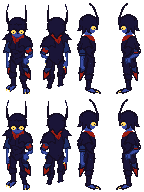
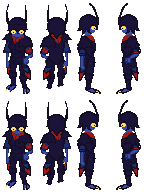
attacks despawn, fixed florence's idle a bit

diff --git a/js/scene/MapScene.js b/js/scene/MapScene.js
@@ -65,30 +65,49 @@ function(EntityMaker, Script, Vector, goody, Scene, Map, CollisionHandler, MapCa
         }
     }
 
-    MapScene.prototype.update = function(input, delta) {
-        // Updates input affected entity with a set of inputs
-        if (input.change) {
-            if (!this._changing) {
-                this._changing = true;
-                this.inputAffected = goody.incrementLoop(this.inputAffected, this.entities["party"].length);
-                this.camera.assignEnity(this.party[this.inputAffected]);
+    MapScene.prototype.updateEntites = function(delta){
+        let toUpdate = ["enemies", "sceneTransitions", "attacks", "other"];
+        for (let i=0; i < toUpdate.length; i++) {
+            for (let n=0; n<this.entities[toUpdate[i]].length; n++) {
+                this.entities[toUpdate[i]][n].update(this.map, this.collisionHandler, delta);
             }
-        } else {
-            this._changing = false;
         }
-        console.log(this.inputAffected)
-        this.entities["party"][this.inputAffected].update(input, this.map, this.collisionHandler, delta)
-        if (this.entities["party"][this.inputAffected].spawn.length !== 0) {
-            for (let i=0; i < this.entities["party"][this.inputAffected].spawn.length ; i++ ) {
-                let spawnInfo = this.entities["party"][this.inputAffected].spawn[i];
+    }
+
+    MapScene.prototype._spawnAttacks = function(entity){
+        if (entity.spawn.length !== 0) {
+            for (let i=0; i < entity.spawn.length ; i++ ) {
+                let spawnInfo = entity.spawn[i];
                 let spawn = EntityMaker(spawnInfo[0], spawnInfo[1]);
                 if (spawn instanceof Attack.Attack) {
                     this.entities.attacks.push(spawn);
                 }
             }
-            this.entities["party"][this.inputAffected].spawn = [];
-        }
+          entity.spawn = []; 
+        } 
+    }
 
+
+    MapScene.prototype.update = function(input, delta) {
+        // Updates input affected entity with a set of inputs
+        this.updateEntites(delta);
+        if (input.change) {
+            if (!this._changing) {
+                this._changing = true;
+                this.inputAffected = goody.incrementLoop(this.inputAffected, this.entities["party"].length);
+                this.camera.assignEnity(this.entities["party"][this.inputAffected]);
+            }
+        } else {
+            this._changing = false;
+        }
+        for (let p=0; p < this.entities["party"].length; p++){
+            if (this.inputAffected == p) {
+                this.entities["party"][this.inputAffected].inputUpdate(input, this.map, this.collisionHandler, delta)
+            } else {
+                this.entities["party"][p].update(this.map, this.collisionHandler, delta);
+            }
+            this._spawnAttacks(this.entities["party"][p])
+        }
 
         for (let i=0; i<this.entities.attacks.length; i++) {
             if (this.entities.attacks[i].active) {
@@ -125,6 +144,9 @@ function(EntityMaker, Script, Vector, goody, Scene, Map, CollisionHandler, MapCa
                 }
             }
         }
+        this.entities["enemies"] = this.entities["enemies"].filter(enemy => !enemy.toDelete);
+        this.entities["attacks"] = this.entities["attacks"].filter(attack => !attack.toDelete);
+
     }
 
     MapScene.prototype.click = function(mousePosition) {
@@ -138,6 +160,10 @@ function(EntityMaker, Script, Vector, goody, Scene, Map, CollisionHandler, MapCa
     MapScene.prototype.display = function() {
         // draws the scene
         this.camera.display(this.cursor, this.entities);
+        this.camera.showString(this.entities["attacks"].length.toString(), 20);
+        if (this.entities["attacks"].length > 0) {
+            this.camera.showString(this.entities["attacks"][this.entities["attacks"].length-1].duration.toString(), 40);
+        }
     }
 
     MapScene.prototype.continuationInfo = function() {

diff --git a/js/display/MapCamera.js b/js/display/MapCamera.js
@@ -113,9 +113,6 @@ function(Vector, goody, vars)
         let tilesetinfo = map.tilesetInfo;
         let tiles = "";
         let tileOffset = 0;
-
-//debugger;
-
         
         // for multiple tilesets, things will get trickier
         for (let n=0; n<tilesetinfo.length; n++) {
@@ -125,17 +122,8 @@ function(Vector, goody, vars)
         // tileset should be stored with each map load omfgs -_-
         let tilesPerRow = 16; // need to fetch from map dat ain the futureS
         let tileset = map.tileset[tiles];
-        // offset for the number and processing tiles
-        //tile = tile - 13; 
-        //for every tile:
-        //    find the image it corresponds to
         let xpos = ((tile - 1) % tilesPerRow) * dim; 
         let ypos = Math.floor(tile / tilesPerRow) * dim;
-
-//        xpos = Math.floor((tile-1) % (tileset.width / dim)) * dim;
-//        ypos = Math.floor((tile-1) / (tileset.width / dim)) * dim;
-//        let xpos = ((tile+1) % (image.width / dim)) * dim;    
-  //      let ypos = Math.floor((tile-1) / (image.width / dim)) * dim; 
         ctx.drawImage(
             images[tileset.image.replace(".png", "")],                                              //image
             xpos,                                                       //x position on image

diff --git a/js/entities/PlayableEntity.js b/js/entities/PlayableEntity.js
@@ -72,7 +72,11 @@ function(Animation, Entity, Vector, goody, vars)
         }
     };
 
-    PlayableEntity.prototype.update = function(input, map, collisionHandler, timeDelta) {
+    PlayableEntity.prototype.update = function(map, collisionHandler, timeDelta) {
+        this._sprite.update(timeDelta);
+    }
+
+    PlayableEntity.prototype.inputUpdate = function(input, map, collisionHandler, timeDelta) {
         // this is entirely variable by game but this is not a bad defualt
         // if moving 
         this._orient(input);
@@ -87,7 +91,9 @@ function(Animation, Entity, Vector, goody, vars)
     PlayableEntity.prototype.drawImage = function(ctx, offset) {
         let displayOffset = this.rect.position.add(offset);
         this._sprite.display(ctx, displayOffset);
-        this.rect.draw(ctx, offset, "#00FF00");
+        if (vars.debug) {
+           this.rect.draw(ctx, offset, "#00FF00");
+        }
     }
     
     PlayableEntity.prototype._move = function(map, collisionHandler, timeDelta) {

diff --git a/js/entities/FollowAttack.js b/js/entities/FollowAttack.js
@@ -18,6 +18,7 @@ function(Animation, Attack, Vector, goody, vars)
         this.ownerPosition = this.owner.rect.center();
         this.rect.width = 20;
         this.rect.height = 20;
+        this.duration = 200;
 
         let offset = "";
         if (this.direction == "D") { 
@@ -32,12 +33,12 @@ function(Animation, Attack, Vector, goody, vars)
         this.rect.position = this.rect.position.add(offset);
     }
 
-    FollowAttack.prototype.update = function(timeDelta) {
+    FollowAttack.prototype.update = function(map, collisionHandler, timeDelta) {
         let offset = this.owner.rect.center().subtract(this.ownerPosition);
         this.rect.position = this.rect.position.add(offset);
         this.ownerPosition = this.owner.rect.center();
         this.duration -= timeDelta;
-        this.active = this.duration >= 0;
+        this.toDelete = this.duration <= 0;
     }
 
     FollowAttack.prototype.drawImage = function(ctx, offset) {

diff --git a/index.html b/index.html
@@ -15,9 +15,11 @@
                 display: block;    
                 margin: auto;
                 /* 2x code */
+                /*
                 width: 1498px;
                 height: 1056px;
                 vertical-align: bottom;
+                */
                 image-rendering: optimizeSpeed;             /* STOP SMOOTHING, GIVE ME SPEED  */
                 image-rendering: -moz-crisp-edges;          /* Firefox                        */
                 image-rendering: -o-crisp-edges;            /* Opera                          */

diff --git a/js/entities/PlayableEntityFlorence.js b/js/entities/PlayableEntityFlorence.js
@@ -23,9 +23,10 @@ function(Animation, PlayableEntity, Vector, goody, vars)
 
         this.rect.width = 21;
         this.rect.height = 27;
+        this.initiated = true;
     }
 
-    PlayableEntityFlorence.prototype.update = function(input, map, collisionHandler, timeDelta) {
+    PlayableEntityFlorence.prototype.inputUpdate = function(input, map, collisionHandler, timeDelta) {
         // this is entirely variable by game but this is not a bad defualt
         // if moving 
         this._orient(input);

diff --git a/js/entities/PlayableEntitySonna.js b/js/entities/PlayableEntitySonna.js
@@ -22,9 +22,10 @@ function(Animation, PlayableEntity, Vector, goody, vars)
 
         this.rect.width = 21;
         this.rect.height = 27;
+        this.initiated = true;
     }
-
-    PlayableEntitySonna.prototype.update = function(input, map, collisionHandler, timeDelta) {
+    
+    PlayableEntitySonna.prototype.inputUpdate = function(input, map, collisionHandler, timeDelta) {
         // this is entirely variable by game but this is not a bad defualt
         // if moving 
         this._orient(input);

diff --git a/js/entities/PlayableEntityPharynx.js b/js/entities/PlayableEntityPharynx.js
@@ -22,9 +22,10 @@ function(Animation, PlayableEntity, Vector, goody, vars)
 
         this.rect.width = 21;
         this.rect.height = 27;
+        this.initiated = true;
     }
 
-    PlayableEntityPharynx.prototype.update = function(input, map, collisionHandler, timeDelta) {
+    PlayableEntityPharynx.prototype.inputUpdate = function(input, map, collisionHandler, timeDelta) {
         // this is entirely variable by game but this is not a bad defualt
         // if moving 
         this._orient(input);

diff --git a/js/assets/vars.js b/js/assets/vars.js
@@ -14,7 +14,7 @@ function()
     let fps = 30;
 
     return {
-        partyList : ["PlayableEntitySonna", "PlayableEntityFlorence", "PlayableEntityPharynx"],
+        partyList : ["PlayableEntitySonna", "PlayableEntityPharynx", "PlayableEntityFlorence"],
         updateInterval: 100, //ms
         displayHeight: 528,
         displayWidth: 748,
@@ -22,5 +22,6 @@ function()
         fps: fps,
         interval: 1000/fps,
         directions: directions,
+        debug: false,
     }
 });

diff --git a/js/entities/Attack.js b/js/entities/Attack.js
@@ -14,7 +14,6 @@ function(Animation, Entity, Vector, goody, vars, PlayableEntity)
         this.owner = info.owner;
         this.rect.position = info.position;
         this.pierce = false;
-        this.active = true;
         this.duration = 500000000000; //ms
         // HERE FOR REFERENCE FOR LATER
         //this._sprite = new Animation.Animation(images.MC, 1, 24, 48);

diff --git a/js/entities/Entity.js b/js/entities/Entity.js
@@ -12,6 +12,7 @@ function(goody, Vector, Rect, vars)
         this.spawn = [];
         this.spawning = false;
         this.toDelete = false;
+        this.initiated = false;
     }
 
     Entity.prototype.setPosition = function(x, y) {
